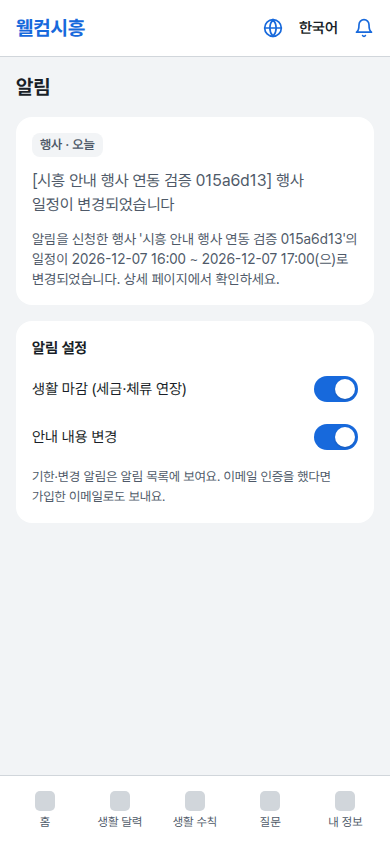
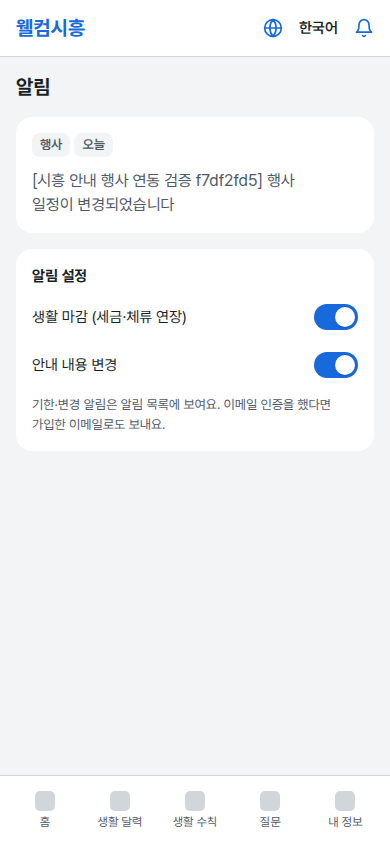
style: 알림 목록 배지와 카드 내용 정리

diff --git a/src/features/notifications/ui/notification-list.tsx b/src/features/notifications/ui/notification-list.tsx
@@ -64,14 +64,16 @@ function NotificationCard({
   const when = 'relative' in day ? t(`notifications.${day.relative}`) : day.date
   const content = (
     <>
-      <span className={styles.badge}>
-        {t(`notifications.groups.${notificationGroup(item.kind)}`)} · {when}
+      <span className={styles.badges}>
+        <span className={styles.badge}>
+          {t(`notifications.groups.${notificationGroup(item.kind)}`)}
+        </span>
+        <span className={styles.badge}>{when}</span>
       </span>
       <span className={styles.title}>
         {!item.read && <span className={styles.dot} aria-hidden="true" />}
         {item.title}
       </span>
-      {item.body && <span className={styles.body}>{item.body}</span>}
       {!item.read && (
         <span className="visually-hidden">{t('notifications.unreadMark')}</span>
       )}

diff --git a/src/features/notifications/ui/notifications.module.css b/src/features/notifications/ui/notifications.module.css
@@ -1,4 +1,4 @@
-/* Figma M09: white card, badge "생활 마감 · 오늘", then the message. */
+/* M09 notification card */
 .card {
   display: flex;
   flex-direction: column;
@@ -18,6 +18,11 @@ a.card {
 button.card:hover,
 a.card:hover {
   box-shadow: inset 0 0 0 1px var(--border);
+}
+.badges {
+  display: flex;
+  flex-wrap: wrap;
+  gap: var(--space-4);
 }
 .badge {
   padding: 2px var(--space-8);
@@ -51,11 +56,6 @@ a.card:hover {
   border-radius: 50%;
   background: var(--primary);
   transform: translateY(-2px);
-}
-.body {
-  font: var(--text-caption);
-  font-size: 14px;
-  color: var(--muted-foreground);
 }
 
 /* M09 알림 설정 card */

diff --git a/docs/prompts/2026-11-27-event-subscriptions.md b/docs/prompts/2026-11-27-event-subscriptions.md
@@ -1,7 +1,7 @@
 # 행사 알림 신청과 행사 상세 보완
 
 - 작성일 2026-11-27
-- 관련 이슈 및 PR [FE #32](https://github.com/SiotTUK/Siot-FE/issues/32), [FE PR #25](https://github.com/SiotTUK/Siot-FE/pull/25), [BE PR #17](https://github.com/SiotTUK/Siot-BE/pull/17), [BE PR #28](https://github.com/SiotTUK/Siot-BE/pull/28)
+- 관련 이슈 및 PR [FE #32](https://github.com/SiotTUK/Siot-FE/issues/32), [FE PR #25](https://github.com/SiotTUK/Siot-FE/pull/25), [FE PR #62](https://github.com/SiotTUK/Siot-FE/pull/62), [BE PR #17](https://github.com/SiotTUK/Siot-BE/pull/17), [BE PR #28](https://github.com/SiotTUK/Siot-BE/pull/28)
 
 ## 목적
 
@@ -33,3 +33,11 @@ BE 저장소에서 실제 요청·응답과 알림 동작을 확인하고 로컬
 | 실제 알림      | 관리자 일정 변경 후 회원 2명 비교   | 구독 회원 1건·해제 회원 0건, 읽음·배지 갱신·같은 행사 복귀 확인 |
 
 미검증 항목은 배포 환경 및 예약 알림의 실제 발송 시각이다.
+
+## 2026-11-27 알림 패널과 목록 화면 수정
+
+- 추천 카드와 행사 상세의 패널 제목을 ‘알림 받기’로 통일한다. 발송 안내와 선택 메뉴 위 라벨을 화면에서 빼고, 화면 낭독기용 이름을 유지한다.
+- 버튼 이름을 ‘저장’과 ‘해제’로 줄이고 상세 패널 오른쪽 아래에 배치한다. 구독 시점을 새로 선택한 후 ‘저장’을 눌러 반영한다.
+- 알림 카드의 종류와 날짜를 각각 배지로 표시한다. 제목 아래의 본문은 제거하고, 제목과 미읽음 표시를 유지한다.
+- Chrome 390×844에서 네 언어의 화면과 알림 구독 조작을 확인했다. 로컬 실제 BE에서 일정 변경 알림의 배지, 읽음 처리, 같은 행사로 이동하는 흐름을 확인했다.
+- 리뷰할 때 두 화면 변경을 별개 커밋으로 확인할 수 있게 한다. PR에는 홈 추천 카드, 행사 상세, 미읽음 알림, 읽은 알림을 각 행에 한 장씩 배치한다.
